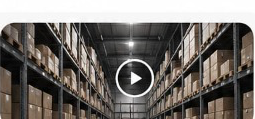
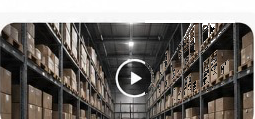
fix(testimonials): resolve double play button, clean warehouse thumbnail, and refine verified client review

diff --git a/src/components/CustomerTestimonials.tsx b/src/components/CustomerTestimonials.tsx
@@ -1,6 +1,6 @@
 import React from 'react';
 import { Link } from 'react-router-dom';
-import { Play } from 'lucide-react';
+import { Play, CheckCircle2 } from 'lucide-react';
 
 export const CustomerTestimonials: React.FC = () => {
   return (
@@ -11,46 +11,79 @@ export const CustomerTestimonials: React.FC = () => {
         <div className="grid grid-cols-2 gap-2 sm:gap-3.5 items-stretch">
           
           {/* Left Card: Customer Testimonial */}
-          <div className="p-2.5 sm:p-4 rounded-xl sm:rounded-2xl bg-[#FAFAFA] border border-[#EAEAEA] flex flex-col justify-between">
+          <div className="p-3 sm:p-4 rounded-xl sm:rounded-2xl bg-[#FAFAFA] border border-[#EAEAEA] flex flex-col justify-between h-full min-h-[110px] sm:min-h-[135px]">
             <div>
-              <div className="text-lg sm:text-xl font-serif text-[#111111] leading-none mb-0.5">
-                &ldquo;
+              {/* Star Rating & Quote Symbol */}
+              <div className="flex items-center justify-between mb-1.5">
+                <div className="flex items-center text-[#111111] text-[9.5px] sm:text-xs tracking-widest">
+                  ★★★★★
+                </div>
+                <div className="text-base sm:text-lg font-serif text-[#888888] leading-none">
+                  &ldquo;
+                </div>
               </div>
-              <p className="text-[9px] sm:text-xs text-[#111111] font-medium leading-relaxed">
+
+              {/* Testimonial Quote */}
+              <p className="text-[9.5px] sm:text-xs text-[#111111] font-medium leading-[1.35]">
                 Reliable, transparent, and hassle-free. Hira made our China sourcing simple.
               </p>
             </div>
 
-            {/* Author info with avatar */}
-            <div className="pt-1.5 sm:pt-2.5 mt-1.5 border-t border-[#EAEAEA]/80 flex items-center gap-1.5 sm:gap-2">
-              <img
-                src="/images/mockup_avatar.png"
-                alt="Business Owner, Kerala"
-                className="w-4 h-4 sm:w-5 sm:h-5 rounded-full object-cover border border-[#EAEAEA]"
-              />
-              <span className="text-[8px] sm:text-[10.5px] font-semibold text-[#111111] truncate">
-                Business Owner, Kerala
-              </span>
+            {/* Author info with clean monogram avatar & verified client badge */}
+            <div className="pt-2 sm:pt-2.5 mt-2 border-t border-[#EAEAEA]/80 flex items-center justify-between gap-1.5">
+              <div className="flex items-center gap-1.5 sm:gap-2 min-w-0">
+                <div className="w-5 h-5 sm:w-6 sm:h-6 rounded-full bg-[#111111] text-white flex items-center justify-center text-[8.5px] sm:text-[10px] font-bold shrink-0">
+                  K
+                </div>
+                <div className="flex flex-col min-w-0 leading-tight">
+                  <span className="text-[8.5px] sm:text-[10.5px] font-semibold text-[#111111] truncate">
+                    Business Owner
+                  </span>
+                  <span className="text-[7.5px] sm:text-[9px] text-[#666666] truncate">
+                    Palakkad, Kerala
+                  </span>
+                </div>
+              </div>
+
+              <div className="hidden xs:flex items-center gap-0.5 text-[8px] sm:text-[9px] font-medium text-[#0066FF] bg-[#0066FF]/10 px-1.5 py-0.5 rounded shrink-0">
+                <CheckCircle2 className="w-2.5 h-2.5" />
+                <span className="hidden sm:inline">Verified</span>
+              </div>
             </div>
           </div>
 
-          {/* Right Card: Real Warehouse Video Thumbnail with Play Button -> Links to dedicated /how-it-works */}
+          {/* Right Card: Real Warehouse Video Thumbnail with Single Centered Play Button -> Links to /how-it-works */}
           <Link
             to="/how-it-works"
-            className="relative rounded-xl sm:rounded-2xl overflow-hidden border border-[#EAEAEA] bg-[#111111] min-h-[85px] sm:min-h-[115px] group cursor-pointer block"
-            aria-label="Watch How It Works Video"
+            className="relative rounded-xl sm:rounded-2xl overflow-hidden border border-[#EAEAEA] bg-[#111111] h-full min-h-[110px] sm:min-h-[135px] group cursor-pointer block"
+            aria-label="Watch How It Works Video (0:45 Full HD)"
           >
+            {/* Clean Warehouse Photo (Without baked-in play button) */}
             <img
               src="/images/mockup_warehouse_video.png"
               alt="Hira Outsourcing China Warehouse Operations"
               className="w-full h-full object-cover transition-transform duration-500 group-hover:scale-105"
             />
             
-            {/* Center Play Button Overlay */}
-            <div className="absolute inset-0 bg-black/20 group-hover:bg-black/35 transition-colors flex items-center justify-center">
-              <div className="w-6 h-6 sm:w-8 sm:h-8 rounded-full bg-white/90 backdrop-blur-sm text-[#111111] flex items-center justify-center shadow-md group-hover:scale-110 transition-transform">
-                <Play className="w-2.5 h-2.5 sm:w-3.5 sm:h-3.5 fill-current translate-x-[0.5px]" />
+            {/* Top Badge: Process Video Duration */}
+            <div className="absolute top-2 left-2 z-10 pointer-events-none">
+              <div className="inline-flex items-center gap-1 px-1.5 sm:px-2 py-0.5 rounded bg-black/75 backdrop-blur-md text-white text-[7.5px] sm:text-[9px] font-mono">
+                <span className="w-1.5 h-1.5 rounded-full bg-[#0066FF] animate-pulse" />
+                <span>How It Works • 0:45</span>
               </div>
+            </div>
+
+            {/* Exactly ONE Centered Crisp Play Button */}
+            <div className="absolute inset-0 bg-black/25 group-hover:bg-black/35 transition-colors flex items-center justify-center">
+              <div className="w-7 h-7 sm:w-9 sm:h-9 rounded-full bg-white text-[#111111] flex items-center justify-center shadow-lg group-hover:scale-110 transition-transform duration-200">
+                <Play className="w-3 h-3 sm:w-4 sm:h-4 fill-current ml-0.5" />
+              </div>
+            </div>
+
+            {/* Bottom Caption Overlay */}
+            <div className="absolute inset-x-0 bottom-0 p-2 sm:p-2.5 bg-gradient-to-t from-black/85 via-black/40 to-transparent flex items-center justify-between text-white text-[8px] sm:text-[9.5px] font-medium z-10">
+              <span className="truncate">Our China Operations</span>
+              <span className="text-[9px] sm:text-xs text-white/80 group-hover:translate-x-0.5 transition-transform shrink-0 ml-1">&rarr;</span>
             </div>
           </Link>
 

diff --git a/src/components/ServicesSection.tsx b/src/components/ServicesSection.tsx
@@ -37,15 +37,15 @@ export const ServicesSection: React.FC = () => {
   ];
 
   return (
-    <section className="pt-3.5 pb-7 sm:pt-5 sm:pb-10 md:pt-5.5 md:pb-11 lg:pt-6 lg:pb-12 bg-white" id="services">
+    <section className="py-6 sm:py-9 md:py-11 lg:py-13 bg-white" id="services">
       <div className="max-w-6xl mx-auto px-3.5 sm:px-6 lg:px-8">
-        
+
         {/* 5 Minimal Horizontal Cards in a 5-column grid */}
         <div className="grid grid-cols-5 gap-1.5 sm:gap-2.5 md:gap-3 lg:gap-3.5">
           {services.map((srv, idx) => {
             const Icon = srv.icon;
             return (
-              <Link 
+              <Link
                 key={idx}
                 to={srv.href}
                 className="py-3.5 px-1 sm:py-5 sm:px-2.5 md:py-6 md:px-3 rounded-2xl sm:rounded-3xl bg-[#F4F4F6] hover:bg-[#EAEBED] border border-transparent hover:border-[#E2E2E6] transition-all duration-200 flex flex-col items-center justify-center text-center cursor-pointer group hover:-translate-y-0.5 shadow-none"
